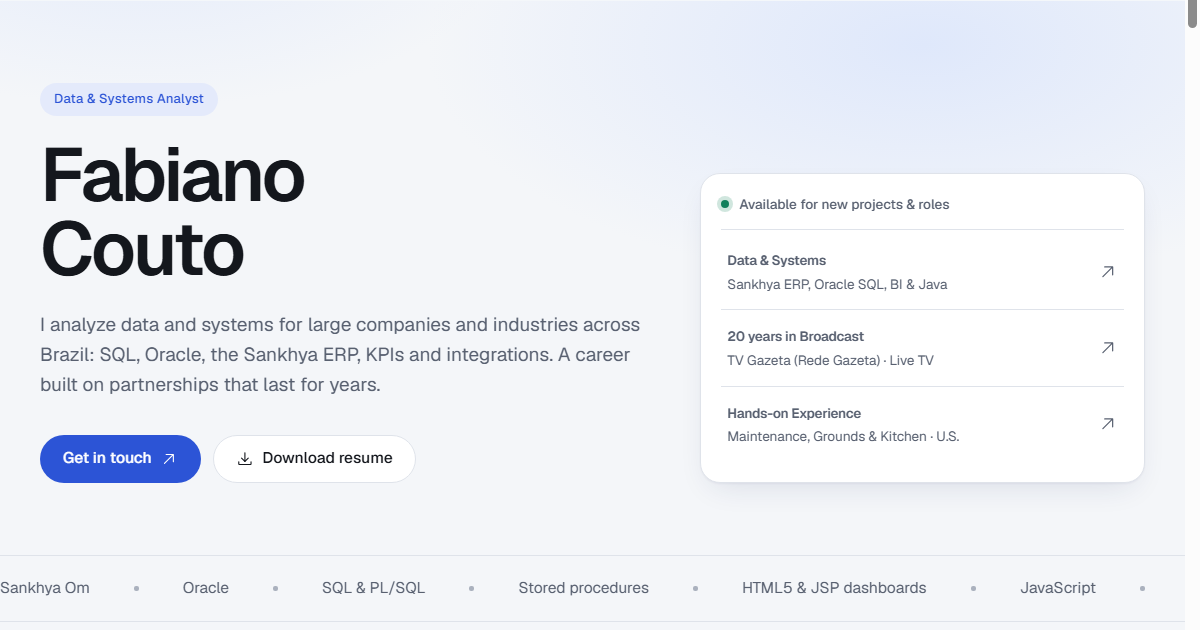
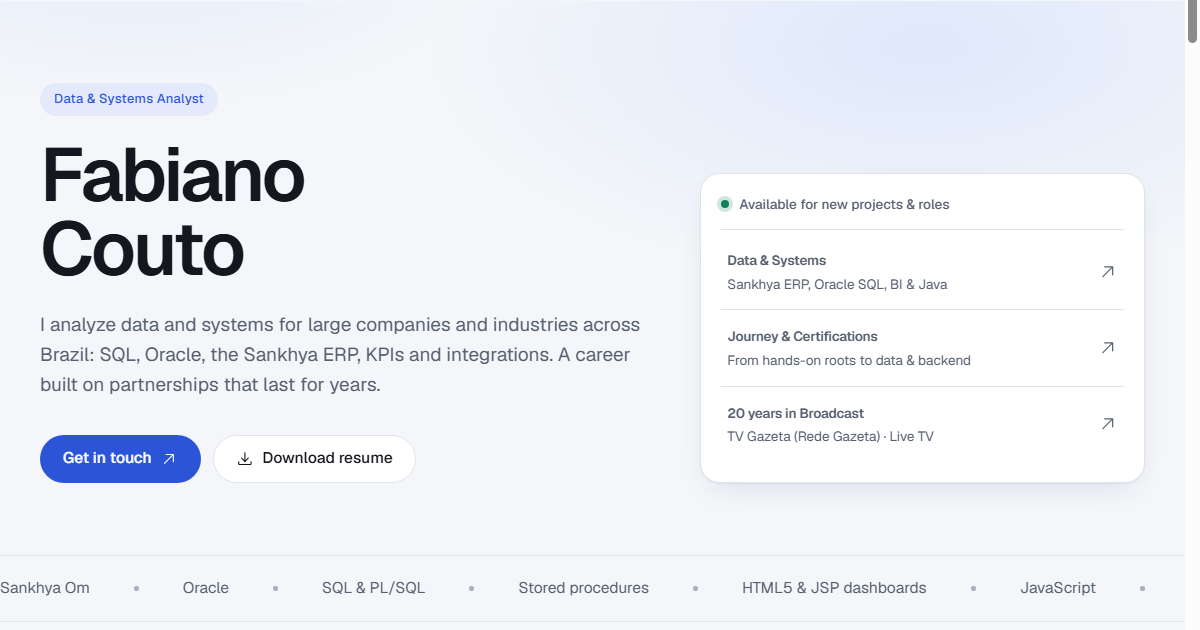
refactor(site): remove hands-on section and update navigation
Removida a secao #hands-on a pedido do Fabiano, junto com seus links no menu e CSS/simbolos nao usados. Atalho do topo ajustado para #journey e prefixos orfaos 02/03 removidos.

Changed region(s): [[0.5858, 0.5127, 0.8017, 0.6032], [0.5858, 0.6333, 0.8017, 0.7238], [0.9867, 0.0302, 1.0, 0.0905]]

diff --git a/index.html b/index.html
@@ -46,7 +46,6 @@
     <symbol id="i-chart-bar" viewBox="0 0 256 256"><path d="M224,200h-8V40a8,8,0,0,0-8-8H152a8,8,0,0,0-8,8V80H96a8,8,0,0,0-8,8v40H48a8,8,0,0,0-8,8v64H32a8,8,0,0,0,0,16H224a8,8,0,0,0,0-16ZM160,48h40V200H160ZM104,96h40V200H104ZM56,144H88v56H56Z"/></symbol>
     <symbol id="i-chart-line-up" viewBox="0 0 256 256"><path d="M232,208a8,8,0,0,1-8,8H32a8,8,0,0,1-8-8V48a8,8,0,0,1,16,0V156.69l50.34-50.35a8,8,0,0,1,11.32,0L128,132.69,180.69,80H160a8,8,0,0,1,0-16h40a8,8,0,0,1,8,8v40a8,8,0,0,1-16,0V91.31l-58.34,58.35a8,8,0,0,1-11.32,0L96,123.31l-56,56V200H224A8,8,0,0,1,232,208Z"/></symbol>
     <symbol id="i-check" viewBox="0 0 256 256"><path d="M229.66,77.66l-128,128a8,8,0,0,1-11.32,0l-56-56a8,8,0,0,1,11.32-11.32L96,188.69,218.34,66.34a8,8,0,0,1,11.32,11.32Z"/></symbol>
-    <symbol id="i-cooking-pot" viewBox="0 0 256 256"><path d="M88,48V16a8,8,0,0,1,16,0V48a8,8,0,0,1-16,0Zm40,8a8,8,0,0,0,8-8V16a8,8,0,0,0-16,0V48A8,8,0,0,0,128,56Zm32,0a8,8,0,0,0,8-8V16a8,8,0,0,0-16,0V48A8,8,0,0,0,160,56Zm92.8,46.4L224,124v60a32,32,0,0,1-32,32H64a32,32,0,0,1-32-32V124L3.2,102.4a8,8,0,0,1,9.6-12.8L32,104V80a8,8,0,0,1,8-8H216a8,8,0,0,1,8,8v24l19.2-14.4a8,8,0,0,1,9.6,12.8ZM208,88H48v96a16,16,0,0,0,16,16H192a16,16,0,0,0,16-16Z"/></symbol>
     <symbol id="i-copy" viewBox="0 0 256 256"><path d="M216,32H88a8,8,0,0,0-8,8V80H40a8,8,0,0,0-8,8V216a8,8,0,0,0,8,8H168a8,8,0,0,0,8-8V176h40a8,8,0,0,0,8-8V40A8,8,0,0,0,216,32ZM160,208H48V96H160Zm48-48H176V88a8,8,0,0,0-8-8H96V48H208Z"/></symbol>
     <symbol id="i-currency-circle-dollar" viewBox="0 0 256 256"><path d="M128,24A104,104,0,1,0,232,128,104.11,104.11,0,0,0,128,24Zm0,192a88,88,0,1,1,88-88A88.1,88.1,0,0,1,128,216Zm40-68a28,28,0,0,1-28,28h-4v8a8,8,0,0,1-16,0v-8H104a8,8,0,0,1,0-16h36a12,12,0,0,0,0-24H116a28,28,0,0,1,0-56h4V72a8,8,0,0,1,16,0v8h16a8,8,0,0,1,0,16H116a12,12,0,0,0,0,24h24A28,28,0,0,1,168,148Z"/></symbol>
     <symbol id="i-download-simple" viewBox="0 0 256 256"><g fill="none" stroke="currentColor" stroke-width="16" stroke-linecap="round" stroke-linejoin="round"><path d="M128 40v124"/><path d="M80 116l48 48 48-48"/><path d="M40 168v32a8 8 0 0 0 8 8h160a8 8 0 0 0 8-8v-32"/></g></symbol>
@@ -59,9 +58,7 @@
     <symbol id="i-map-pin" viewBox="0 0 256 256"><path d="M128,64a40,40,0,1,0,40,40A40,40,0,0,0,128,64Zm0,64a24,24,0,1,1,24-24A24,24,0,0,1,128,128Zm0-112a88.1,88.1,0,0,0-88,88c0,31.4,14.51,64.68,42,96.25a254.19,254.19,0,0,0,41.45,38.3,8,8,0,0,0,9.18,0A254.19,254.19,0,0,0,174,200.25c27.45-31.57,42-64.85,42-96.25A88.1,88.1,0,0,0,128,16Zm0,206c-16.53-13-72-60.75-72-118a72,72,0,0,1,144,0C200,161.23,144.53,209,128,222Z"/></symbol>
     <symbol id="i-moon" viewBox="0 0 256 256"><g fill="none" stroke="currentColor" stroke-width="16" stroke-linecap="round" stroke-linejoin="round"><path d="M210.7 152.6A84 84 0 0 1 103.4 45.3 84 84 0 1 0 210.7 152.6Z"/></g></symbol>
     <symbol id="i-phone" viewBox="0 0 256 256"><path d="M222.37,158.46l-47.11-21.11-.13-.06a16,16,0,0,0-15.17,1.4,8.12,8.12,0,0,0-.75.56L134.87,160c-15.42-7.49-31.34-23.29-38.83-38.51l20.78-24.71c.2-.25.39-.5.57-.77a16,16,0,0,0,1.32-15.06l0-.12L97.54,33.64a16,16,0,0,0-16.62-9.52A56.26,56.26,0,0,0,32,80c0,79.4,64.6,144,144,144a56.26,56.26,0,0,0,55.88-48.92A16,16,0,0,0,222.37,158.46ZM176,208A128.14,128.14,0,0,1,48,80,40.2,40.2,0,0,1,82.87,40a.61.61,0,0,0,0,.12l21,47L83.2,111.86a6.13,6.13,0,0,0-.57.77,16,16,0,0,0-1,15.7c9.06,18.53,27.73,37.06,46.46,46.11a16,16,0,0,0,15.75-1.14,8.44,8.44,0,0,0,.74-.56L168.89,152l47,21.05h0s.08,0,.11,0A40.21,40.21,0,0,1,176,208Z"/></symbol>
-    <symbol id="i-plant" viewBox="0 0 256 256"><path d="M247.63,47.89a8,8,0,0,0-7.52-7.52c-51.76-3-93.32,12.74-111.18,42.22-11.8,19.49-11.78,43.16-.16,65.74a71.34,71.34,0,0,0-14.17,27L98.33,159c7.82-16.33,7.52-33.35-1-47.49-13.2-21.79-43.67-33.47-81.5-31.25a8,8,0,0,0-7.52,7.52c-2.23,37.83,9.46,68.3,31.25,81.5A45.82,45.82,0,0,0,63.44,176,54.58,54.58,0,0,0,87,170.33l25,25V224a8,8,0,0,0,16,0V194.51a55.61,55.61,0,0,1,12.27-35,73.91,73.91,0,0,0,33.31,8.4,60.9,60.9,0,0,0,31.83-8.86C234.89,141.21,250.67,99.65,247.63,47.89ZM47.81,155.6C32.47,146.31,23.79,124.32,24,96c28.32-.24,50.31,8.47,59.6,23.81,4.85,8,5.64,17.33,2.46,26.94L61.65,122.34a8,8,0,0,0-11.31,11.31l24.41,24.41C65.14,161.24,55.82,160.45,47.81,155.6Zm149.31-10.22c-13.4,8.11-29.15,8.73-45.15,2l53.69-53.7a8,8,0,0,0-11.31-11.31L140.65,136c-6.76-16-6.15-31.76,2-45.15,13.94-23,47-35.82,89.33-34.83C232.94,98.34,220.14,131.44,197.12,145.38Z"/></symbol>
     <symbol id="i-seal" viewBox="0 0 256 256"><g fill="none" stroke="currentColor" stroke-width="16" stroke-linecap="round" stroke-linejoin="round"><circle cx="128" cy="100" r="64"/><path d="M92 152 76 232l52-26 52 26-16-80"/></g></symbol>
-    <symbol id="i-squares-four" viewBox="0 0 256 256"><path d="M104,40H56A16,16,0,0,0,40,56v48a16,16,0,0,0,16,16h48a16,16,0,0,0,16-16V56A16,16,0,0,0,104,40Zm0,64H56V56h48v48Zm96-64H152a16,16,0,0,0-16,16v48a16,16,0,0,0,16,16h48a16,16,0,0,0,16-16V56A16,16,0,0,0,200,40Zm0,64H152V56h48v48Zm-96,32H56a16,16,0,0,0-16,16v48a16,16,0,0,0,16,16h48a16,16,0,0,0,16-16V152A16,16,0,0,0,104,136Zm0,64H56V152h48v48Zm96-64H152a16,16,0,0,0-16,16v48a16,16,0,0,0,16,16h48a16,16,0,0,0,16-16V152A16,16,0,0,0,200,136Zm0,64H152V152h48v48Z"/></symbol>
     <symbol id="i-sun" viewBox="0 0 256 256"><g fill="none" stroke="currentColor" stroke-width="16" stroke-linecap="round" stroke-linejoin="round"><circle cx="128" cy="128" r="44"/><path d="M128 28v20M128 208v20M28 128h20M208 128h20M57.3 57.3l14.1 14.1M184.6 184.6l14.1 14.1M198.7 57.3l-14.1 14.1M71.4 184.6l-14.1 14.1"/></g></symbol>
     <symbol id="i-target" viewBox="0 0 256 256"><path d="M221.87,83.16A104.1,104.1,0,1,1,195.67,49l22.67-22.68a8,8,0,0,1,11.32,11.32l-96,96a8,8,0,0,1-11.32-11.32l27.72-27.72a40,40,0,1,0,17.87,31.09,8,8,0,1,1,16-.9,56,56,0,1,1-22.38-41.65L184.3,60.39a87.88,87.88,0,1,0,23.13,29.67,8,8,0,0,1,14.44-6.9Z"/></symbol>
     <symbol id="i-users-three" viewBox="0 0 256 256"><path d="M244.8,150.4a8,8,0,0,1-11.2-1.6A51.6,51.6,0,0,0,192,128a8,8,0,0,1-7.37-4.89,8,8,0,0,1,0-6.22A8,8,0,0,1,192,112a24,24,0,1,0-23.24-30,8,8,0,1,1-15.5-4A40,40,0,1,1,219,117.51a67.94,67.94,0,0,1,27.43,21.68A8,8,0,0,1,244.8,150.4ZM190.92,212a8,8,0,1,1-13.84,8,57,57,0,0,0-98.16,0,8,8,0,1,1-13.84-8,72.06,72.06,0,0,1,33.74-29.92,48,48,0,1,1,58.36,0A72.06,72.06,0,0,1,190.92,212ZM128,176a32,32,0,1,0-32-32A32,32,0,0,0,128,176ZM72,120a8,8,0,0,0-8-8A24,24,0,1,1,87.24,82a8,8,0,1,0,15.5-4A40,40,0,1,0,37,117.51,67.94,67.94,0,0,0,9.6,139.19a8,8,0,1,0,12.8,9.61A51.6,51.6,0,0,1,64,128,8,8,0,0,0,72,120Z"/></symbol>
@@ -83,7 +80,6 @@
         <a href="#commitment" data-nav="commitment"><span data-l="en">Commitment</span><span data-l="pt">Compromisso</span></a>
         <a href="#services" data-nav="services"><span data-l="en">Services</span><span data-l="pt">Serviços</span></a>
         <a href="#journey" data-nav="journey"><span data-l="en">Journey</span><span data-l="pt">Trajetória</span></a>
-        <a href="#hands-on" data-nav="hands-on"><span data-l="en">Hands-on</span><span data-l="pt">Trabalho manual</span></a>
         <a href="#broadcast" data-nav="broadcast"><span data-l="en">Broadcast</span><span data-l="pt">Televisão</span></a>
       </nav>
       <div class="nav-actions">
@@ -105,7 +101,6 @@
       <a href="#commitment"><span data-l="en">Commitment</span><span data-l="pt">Compromisso</span></a>
       <a href="#services"><span data-l="en">Services</span><span data-l="pt">Serviços</span></a>
       <a href="#journey"><span data-l="en">Journey</span><span data-l="pt">Trajetória</span></a>
-      <a href="#hands-on"><span data-l="en">Hands-on</span><span data-l="pt">Trabalho manual</span></a>
       <a href="#broadcast"><span data-l="en">Broadcast</span><span data-l="pt">Televisão</span></a>
       <a class="btn btn-primary" href="#contact"><span data-l="en">Get in touch</span><span data-l="pt">Fale comigo</span></a>
     </nav>
@@ -151,19 +146,19 @@
               </a>
             </li>
             <li>
-              <a href="#broadcast">
+              <a href="#journey">
                 <div>
-                  <strong><span data-l="en">20 years in Broadcast</span><span data-l="pt">20 anos de Televisão</span></strong>
-                  <span><span data-l="en">TV Gazeta (Rede Gazeta) &middot; Live TV</span><span data-l="pt">TV Gazeta (Rede Gazeta) &middot; TV ao vivo</span></span>
+                  <strong><span data-l="en">Journey &amp; Certifications</span><span data-l="pt">Trajetória e Certificados</span></strong>
+                  <span><span data-l="en">From hands-on roots to data &amp; backend</span><span data-l="pt">Das origens práticas a dados e backend</span></span>
                 </div>
                 <svg class="icon" aria-hidden="true"><use href="#i-arrow-up-right"/></svg>
               </a>
             </li>
             <li>
-              <a href="#hands-on">
+              <a href="#broadcast">
                 <div>
-                  <strong><span data-l="en">Hands-on Experience</span><span data-l="pt">Trabalho Manual</span></strong>
-                  <span><span data-l="en">Maintenance, Grounds &amp; Kitchen &middot; U.S.</span><span data-l="pt">Manutenção, Paisagismo e Cozinha &middot; EUA</span></span>
+                  <strong><span data-l="en">20 years in Broadcast</span><span data-l="pt">20 anos de Televisão</span></strong>
+                  <span><span data-l="en">TV Gazeta (Rede Gazeta) &middot; Live TV</span><span data-l="pt">TV Gazeta (Rede Gazeta) &middot; TV ao vivo</span></span>
                 </div>
                 <svg class="icon" aria-hidden="true"><use href="#i-arrow-up-right"/></svg>
               </a>
@@ -355,86 +350,13 @@
       </div>
     </section>
 
-    <!-- HANDS-ON -->
-    <section class="section" id="hands-on" style="padding-top:0">
-      <div class="wrap hands">
-        <div class="hands-copy reveal">
-          <span class="kicker"><span data-l="en">01 &middot; The start</span><span data-l="pt">01 &middot; O começo</span></span>
-          <h2><span data-l="en">Where it all began.</span><span data-l="pt">Onde tudo começou.</span></h2>
-          <p>
-            <span data-l="en">In Hyannis, Massachusetts, I spent years in hotel maintenance, grounds and landscaping, and a high-volume kitchen. I also install ceramic tile.</span>
-            <span data-l="pt">Em Hyannis, Massachusetts, passei anos na manutenção de hotel, em áreas externas e paisagismo e numa cozinha de alto volume. Também faço assentamento de piso cerâmico.</span>
-          </p>
-          <div class="traits">
-            <span><span data-l="en">Punctual</span><span data-l="pt">Pontual</span></span>
-            <span><span data-l="en">Safety first</span><span data-l="pt">Segurança em primeiro lugar</span></span>
-            <span><span data-l="en">Heavy physical work</span><span data-l="pt">Trabalho pesado</span></span>
-            <span><span data-l="en">Tools &amp; equipment</span><span data-l="pt">Ferramentas e equipamentos</span></span>
-            <span><span data-l="en">Guest-facing</span><span data-l="pt">Contato com hóspedes</span></span>
-          </div>
-          <div class="avail">
-            <p>
-              <span data-l="en"><strong>Still available for hands-on work</strong> in maintenance, grounds, kitchen and hospitality, done with efficiency, honesty and commitment.</span>
-              <span data-l="pt"><strong>Continuo disponível para trabalho manual</strong> em manutenção, áreas externas, cozinha e hotelaria, feito com eficiência, honestidade e compromisso.</span>
-            </p>
-            <a class="btn btn-primary" href="assets/Fabiano-Couto-Pereira-Resume.pdf" download>
-              <svg class="icon" aria-hidden="true"><use href="#i-download-simple"/></svg>
-              <span data-l="en">Download resume (PDF)</span><span data-l="pt">Baixar currículo (PDF, em inglês)</span></a>
-          </div>
-        </div>
-        <div class="hands-grid">
-          <figure class="shot" data-shutter style="--d:0s">
-            <div class="shot-img"><img class="shot-parallax" src="assets/img/maintenance.webp" width="1200" height="801" loading="lazy" decoding="async"
-              alt="Hands using a power drill on a repair"
-              data-alt-en="Hands using a power drill on a repair"
-              data-alt-pt="Mãos usando uma furadeira num reparo"></div>
-            <figcaption>
-              <svg class="icon" aria-hidden="true"><use href="#i-wrench"/></svg>
-              <div><strong><span data-l="en">General maintenance</span><span data-l="pt">Manutenção geral</span></strong>
-                <span data-l="en">Days Inn, Hyannis MA. 4 years of repairs and facility upkeep.</span><span data-l="pt">Days Inn, Hyannis MA. 4 anos de reparos e conservação do hotel.</span></div>
-            </figcaption>
-          </figure>
-          <figure class="shot" data-shutter style="--d:.1s">
-            <div class="shot-img"><img class="shot-parallax" src="assets/img/landscaping.webp" width="1200" height="800" loading="lazy" decoding="async"
-              alt="Gloved hands pruning a green shrub with hand shears"
-              data-alt-en="Gloved hands pruning a green shrub with hand shears"
-              data-alt-pt="Mãos de luva podando um arbusto com tesoura de poda"></div>
-            <figcaption>
-              <svg class="icon" aria-hidden="true"><use href="#i-plant"/></svg>
-              <div><strong><span data-l="en">Landscaping &amp; grounds</span><span data-l="pt">Paisagismo e áreas externas</span></strong>
-                <span data-l="en">Lawns, hedges, walkways and outdoor areas kept safe for guests.</span><span data-l="pt">Gramados, cercas vivas, calçadas e áreas externas seguras para os hóspedes.</span></div>
-            </figcaption>
-          </figure>
-          <figure class="shot" data-shutter style="--d:0s">
-            <div class="shot-img"><img class="shot-parallax" src="assets/img/tile.webp" width="1000" height="1500" loading="lazy" decoding="async"
-              alt="Hands setting white ceramic tile on a wall"
-              data-alt-en="Hands setting white ceramic tile on a wall"
-              data-alt-pt="Mãos assentando revestimento cerâmico branco na parede"></div>
-            <figcaption>
-              <svg class="icon" aria-hidden="true"><use href="#i-squares-four"/></svg>
-              <div><strong><span data-l="en">Ceramic tile installation</span><span data-l="pt">Assentamento de piso cerâmico</span></strong>
-                <span data-l="en">Floors and walls laid level, clean and with even grout lines.</span><span data-l="pt">Pisos e paredes nivelados, limpos e com rejunte uniforme.</span></div>
-            </figcaption>
-          </figure>
-          <figure class="shot shot-plain reveal" style="--d:.1s">
-            <div class="shot-img" aria-hidden="true"><svg class="icon"><use href="#i-cooking-pot"/></svg></div>
-            <figcaption>
-              <svg class="icon" aria-hidden="true"><use href="#i-cooking-pot"/></svg>
-              <div><strong><span data-l="en">Line cook</span><span data-l="pt">Cozinheiro de linha</span></strong>
-                <span data-l="en">TGI Fridays, Hyannis MA. 3 years on the grill, salad and pasta stations.</span><span data-l="pt">TGI Fridays, Hyannis MA. 3 anos nas praças de grelha, saladas e massas.</span></div>
-            </figcaption>
-          </figure>
-        </div>
-      </div>
-    </section>
-
     <!-- BROADCAST -->
     <section class="section" id="broadcast" style="padding-top:0">
       <div class="wrap">
         <div class="broadcast-intro reveal">
           <div class="big-number"><span data-roll="20">20</span><small><span data-l="en">years at TV Gazeta</span><span data-l="pt">anos na TV Gazeta</span></small></div>
           <div>
-            <span class="kicker"><span data-l="en">02 &middot; Broadcast</span><span data-l="pt">02 &middot; Televisão</span></span>
+            <span class="kicker"><span data-l="en">Broadcast</span><span data-l="pt">Televisão</span></span>
             <h2><span data-l="en">Two decades in live television.</span><span data-l="pt">Duas décadas de televisão ao vivo.</span></h2>
             <p>
               <span data-l="en">At TV Gazeta, part of Rede Gazeta, I worked across several areas. I ran master control, a room full of monitors and equipment where every second on air depends on the operator, and I worked as a camera operator and video editor.</span>
@@ -482,7 +404,7 @@
         </div>
 
         <div class="bridge reveal">
-          <span class="bridge-label"><span data-l="en">03 &middot; Today</span><span data-l="pt">03 &middot; Hoje</span></span>
+          <span class="bridge-label"><span data-l="en">Today</span><span data-l="pt">Hoje</span></span>
           <p data-fill>
             <span data-l="en">After that, through study, focus, hard work and dedication, I moved into systems and data analysis, serving large companies and industries across Brazil. Master control taught me to watch many signals at once and act before a problem reaches the viewer. A good dashboard does the same job for a business.</span>
             <span data-l="pt">Depois desse período, com estudo, foco, trabalho e dedicação, cheguei à análise de sistemas e de dados, atendendo grandes empresas e indústrias do Brasil. O controle mestre me ensinou a acompanhar muitos sinais ao mesmo tempo e agir antes que o problema chegue ao telespectador. Um bom dashboard faz o mesmo por uma empresa.</span>

diff --git a/assets/css/style.css b/assets/css/style.css
@@ -407,20 +407,6 @@ p { margin: 0; text-wrap: pretty; }
   }
 }
 
-/* hands-on */
-.hands { display: grid; grid-template-columns: .9fr 1.1fr; gap: clamp(32px, 6vw, 80px); align-items: start; }
-.hands-copy { position: sticky; top: 108px; }
-.hands-copy h2 { font-size: clamp(2rem, 3.6vw, 3rem); }
-.hands-copy p { margin-top: 16px; color: var(--muted); font-size: 18px; max-width: 46ch; }
-.traits { display: flex; flex-wrap: wrap; gap: 8px; margin-top: 28px; }
-.traits > span { font-size: 14px; padding: 7px 14px; border-radius: 999px; border: 1px solid var(--line); background: var(--surface); }
-.hands-grid { display: grid; grid-template-columns: 1fr 1fr; gap: 16px; }
-.hands-grid .shot:nth-child(2) { margin-top: 56px; }
-.hands-grid .shot:nth-child(4) { margin-top: 56px; }
-.hands-grid .shot-img { aspect-ratio: 4 / 5; }
-.shot-plain .shot-img { display: grid; place-items: center; background: var(--accent-soft); color: var(--accent); }
-.shot-plain .shot-img .icon { width: 72px; height: 72px; }
-
 /* journey: rising bar chart, oldest stage on the left */
 .climb { list-style: none; margin: 0; padding: 0; display: grid; grid-template-columns: repeat(3, 1fr); gap: 16px; }
 .step {
@@ -498,14 +484,6 @@ p { margin: 0; text-wrap: pretty; }
 .cert h4 { margin: 0; font-size: 17.5px; font-weight: 600; letter-spacing: -0.02em; line-height: 1.25; }
 .cert p { margin-top: 6px; color: var(--muted); font-size: 14.5px; }
 
-/* hands-on: availability call-out with the resume download */
-.avail {
-  margin-top: 32px; padding: 22px 24px; border-radius: var(--r-lg); background: var(--accent-soft);
-  display: flex; flex-direction: column; align-items: flex-start; gap: 18px;
-}
-.hands-copy .avail p { margin: 0; color: var(--text); font-size: 16.5px; max-width: 46ch; }
-.avail strong { font-weight: 600; color: var(--accent); }
-
 /* contact */
 .contact {
   background: var(--surface); border: 1px solid var(--line); border-radius: var(--r-lg); box-shadow: var(--shadow);
@@ -571,8 +549,6 @@ p { margin: 0; text-wrap: pretty; }
 @media (max-width: 940px) {
   .hero-grid { grid-template-columns: 1fr; }
   .hero-aside { max-width: none; }
-  .hands { grid-template-columns: 1fr; }
-  .hands-copy { position: static; }
   .step { padding: 20px; }
   .step:nth-child(1) { margin-top: 96px; }
   .step:nth-child(2) { margin-top: 48px; }
@@ -590,9 +566,6 @@ p { margin: 0; text-wrap: pretty; }
   .broadcast-intro { grid-template-columns: 1fr; gap: 20px; }
   .broadcast-grid { grid-template-columns: 1fr; }
   .shot-tall .shot-img { aspect-ratio: 4 / 3; }
-  .hands-grid { grid-template-columns: 1fr; }
-  .hands-grid .shot:nth-child(2), .hands-grid .shot:nth-child(4) { margin-top: 0; }
-  .hands-grid .shot-img { aspect-ratio: 4 / 3; }
   .climb { grid-template-columns: 1fr; gap: 12px; }
   .step, .step:nth-child(1), .step:nth-child(2) { margin-top: 0; min-height: 0; gap: 28px; }
   .contact { grid-template-columns: 1fr; }
